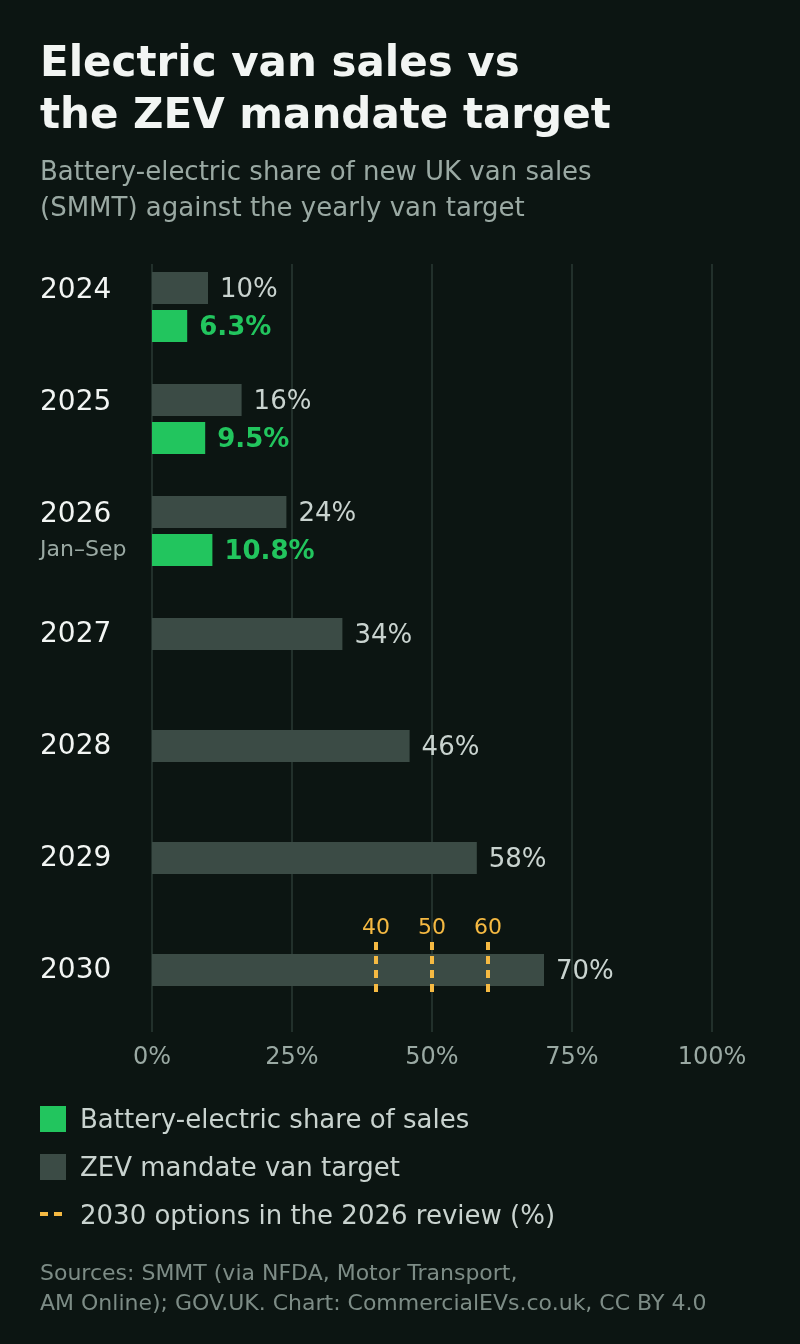
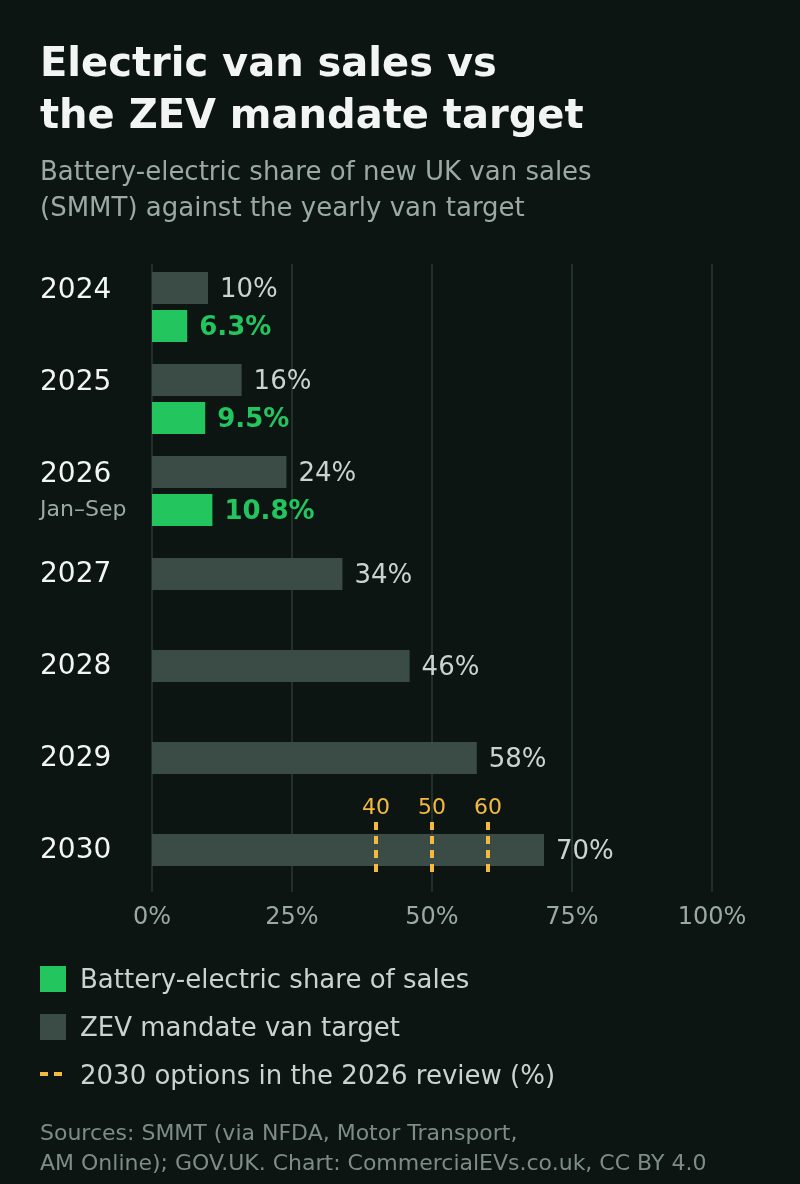
Stop the ZEV chart showing at full size with a cached stylesheet
The chart's sizing rule lived in css/site.css, which kept the same URL.
Browsers holding the old stylesheet (Cloudflare's default browser cache
is 4 hours) drew the image at its 1600px width attribute, so it filled
the screen.

- Stylesheet links now carry ?v=2 on every page, so browsers fetch the
  new file; bump it whenever site.css changes
- Chart img sizes itself inline and its width/height attributes are
  the display size (800x480), so it fits even with a stale or missing
  stylesheet; a global img max-width rule backs this up
- Phone chart is about 15% shorter (rows tightened)

Claude-Session: https://claude.ai/code/session_015u8ZRQrqo8v427ZXcUvqVB

diff --git a/commercial-electric-vehicles-uk/index.html b/commercial-electric-vehicles-uk/index.html
@@ -84,7 +84,7 @@
     'https://www.googletagmanager.com/gtm.js?id='+i+dl;f.parentNode.insertBefore(j,f);
     })(window,document,'script','dataLayer','GTM-M4XK23H');</script>
 
-  <link href="/css/site.css" rel="stylesheet">
+  <link href="/css/site.css?v=2" rel="stylesheet">
   <link rel="preconnect" href="https://fonts.googleapis.com">
   <link rel="preconnect" href="https://fonts.gstatic.com" crossorigin>
   <link href="https://fonts.googleapis.com/css2?family=Inter:wght@400;600;800&display=swap" rel="stylesheet" media="print" onload="this.media='all'">
@@ -143,8 +143,8 @@
     </ul>
     <figure class="chart">
       <a href="/img/zev-van-sales-vs-target.png" title="Open the full-size chart"><picture>
-        <source media="(max-width: 640px)" srcset="/img/zev-van-sales-vs-target-mobile.png" width="800" height="1344">
-        <img src="/img/zev-van-sales-vs-target.png" width="1600" height="960" loading="lazy" alt="Bar chart: battery-electric vans were 6.3% of new UK van sales in 2024 against a 10% ZEV mandate target, 9.5% in 2025 against 16%, and 10.8% from January to September 2026 against 24%. The target rises to 34% in 2027, 46% in 2028, 58% in 2029 and 70% in 2030. The 2026 review proposes 60%, 50% or 40% for 2030.">
+        <source media="(max-width: 640px)" srcset="/img/zev-van-sales-vs-target-mobile.png" width="400" height="592">
+        <img src="/img/zev-van-sales-vs-target.png" width="800" height="480" style="display:block;width:100%;max-width:800px;height:auto" loading="lazy" alt="Bar chart: battery-electric vans were 6.3% of new UK van sales in 2024 against a 10% ZEV mandate target, 9.5% in 2025 against 16%, and 10.8% from January to September 2026 against 24%. The target rises to 34% in 2027, 46% in 2028, 58% in 2029 and 70% in 2030. The 2026 review proposes 60%, 50% or 40% for 2030.">
       </picture></a>
       <figcaption>Electric van sales have fallen short of the ZEV mandate target every year so far, and the gap is widening. Manufacturers can use flexibilities, so a shortfall doesn't automatically mean fines. <a href="#s22">[22]</a> <a href="#s1">[1]</a> <a href="#s17">[17]</a> <a href="#s3">[3]</a> <a href="#s20">[20]</a><br>Free to use under <a href="https://creativecommons.org/licenses/by/4.0/" rel="license noopener" target="_blank">CC BY 4.0</a> with a credit link to this page. Download <a href="/img/zev-van-sales-vs-target.png" download>PNG</a> or <a href="/img/zev-van-sales-vs-target.svg" download>SVG</a>.</figcaption>
     </figure>

diff --git a/charging-an-electric-van/index.html b/charging-an-electric-van/index.html
@@ -70,7 +70,7 @@
     'https://www.googletagmanager.com/gtm.js?id='+i+dl;f.parentNode.insertBefore(j,f);
     })(window,document,'script','dataLayer','GTM-M4XK23H');</script>
 
-  <link href="/css/site.css" rel="stylesheet">
+  <link href="/css/site.css?v=2" rel="stylesheet">
   <link rel="preconnect" href="https://fonts.googleapis.com">
   <link rel="preconnect" href="https://fonts.gstatic.com" crossorigin>
   <link href="https://fonts.googleapis.com/css2?family=Inter:wght@400;600;800&display=swap" rel="stylesheet" media="print" onload="this.media='all'">

diff --git a/diesel-vs-electric-vans/index.html b/diesel-vs-electric-vans/index.html
@@ -70,7 +70,7 @@
     'https://www.googletagmanager.com/gtm.js?id='+i+dl;f.parentNode.insertBefore(j,f);
     })(window,document,'script','dataLayer','GTM-M4XK23H');</script>
 
-  <link href="/css/site.css" rel="stylesheet">
+  <link href="/css/site.css?v=2" rel="stylesheet">
   <link rel="preconnect" href="https://fonts.googleapis.com">
   <link rel="preconnect" href="https://fonts.gstatic.com" crossorigin>
   <link href="https://fonts.googleapis.com/css2?family=Inter:wght@400;600;800&display=swap" rel="stylesheet" media="print" onload="this.media='all'">

diff --git a/electric-van-fleets-uk/index.html b/electric-van-fleets-uk/index.html
@@ -70,7 +70,7 @@
     'https://www.googletagmanager.com/gtm.js?id='+i+dl;f.parentNode.insertBefore(j,f);
     })(window,document,'script','dataLayer','GTM-M4XK23H');</script>
 
-  <link href="/css/site.css" rel="stylesheet">
+  <link href="/css/site.css?v=2" rel="stylesheet">
   <link rel="preconnect" href="https://fonts.googleapis.com">
   <link rel="preconnect" href="https://fonts.gstatic.com" crossorigin>
   <link href="https://fonts.googleapis.com/css2?family=Inter:wght@400;600;800&display=swap" rel="stylesheet" media="print" onload="this.media='all'">

diff --git a/electric-vans-uk/index.html b/electric-vans-uk/index.html
@@ -70,7 +70,7 @@
     'https://www.googletagmanager.com/gtm.js?id='+i+dl;f.parentNode.insertBefore(j,f);
     })(window,document,'script','dataLayer','GTM-M4XK23H');</script>
 
-  <link href="/css/site.css" rel="stylesheet">
+  <link href="/css/site.css?v=2" rel="stylesheet">
   <link rel="preconnect" href="https://fonts.googleapis.com">
   <link rel="preconnect" href="https://fonts.gstatic.com" crossorigin>
   <link href="https://fonts.googleapis.com/css2?family=Inter:wght@400;600;800&display=swap" rel="stylesheet" media="print" onload="this.media='all'">

diff --git a/domain-for-sale/index.html b/domain-for-sale/index.html
@@ -59,7 +59,7 @@
     'https://www.googletagmanager.com/gtm.js?id='+i+dl;f.parentNode.insertBefore(j,f);
     })(window,document,'script','dataLayer','GTM-M4XK23H');</script>
 
-  <link href="/css/site.css" rel="stylesheet">
+  <link href="/css/site.css?v=2" rel="stylesheet">
   <!-- Font loads without blocking first paint -->
   <link rel="preconnect" href="https://fonts.googleapis.com">
   <link rel="preconnect" href="https://fonts.gstatic.com" crossorigin>

diff --git a/index.html b/index.html
@@ -77,7 +77,7 @@
     'https://www.googletagmanager.com/gtm.js?id='+i+dl;f.parentNode.insertBefore(j,f);
     })(window,document,'script','dataLayer','GTM-M4XK23H');</script>
 
-  <link href="/css/site.css" rel="stylesheet">
+  <link href="/css/site.css?v=2" rel="stylesheet">
   <!-- Font loads without blocking first paint -->
   <link rel="preconnect" href="https://fonts.googleapis.com">
   <link rel="preconnect" href="https://fonts.gstatic.com" crossorigin>

diff --git a/about/index.html b/about/index.html
@@ -41,7 +41,7 @@
     gtag('config', 'G-9Y22D7RMQH');
   </script>
 
-  <link href="/css/site.css" rel="stylesheet">
+  <link href="/css/site.css?v=2" rel="stylesheet">
   <link rel="preconnect" href="https://fonts.googleapis.com">
   <link rel="preconnect" href="https://fonts.gstatic.com" crossorigin>
   <link href="https://fonts.googleapis.com/css2?family=Inter:wght@400;600;800&display=swap" rel="stylesheet" media="print" onload="this.media='all'">

diff --git a/privacy/index.html b/privacy/index.html
@@ -21,7 +21,7 @@
     gtag('config', 'G-9Y22D7RMQH');
   </script>
 
-  <link href="/css/site.css" rel="stylesheet">
+  <link href="/css/site.css?v=2" rel="stylesheet">
   <link rel="preconnect" href="https://fonts.googleapis.com">
   <link rel="preconnect" href="https://fonts.gstatic.com" crossorigin>
   <link href="https://fonts.googleapis.com/css2?family=Inter:wght@400;600;800&display=swap" rel="stylesheet" media="print" onload="this.media='all'">

diff --git a/404.html b/404.html
@@ -8,7 +8,7 @@
   <link rel="icon" href="/favicon.ico" sizes="48x48">
   <link rel="icon" href="/favicon.svg" type="image/svg+xml">
   <link rel="apple-touch-icon" href="/img/apple-touch-icon.png">
-  <link href="/css/site.css" rel="stylesheet">
+  <link href="/css/site.css?v=2" rel="stylesheet">
 </head>
 <body>
   <main class="page hub">

diff --git a/css/site.css b/css/site.css
@@ -7,6 +7,7 @@
 }
 
 * { box-sizing: border-box; }
+img { max-width: 100%; height: auto; }
 
 body {
   margin: 0;
